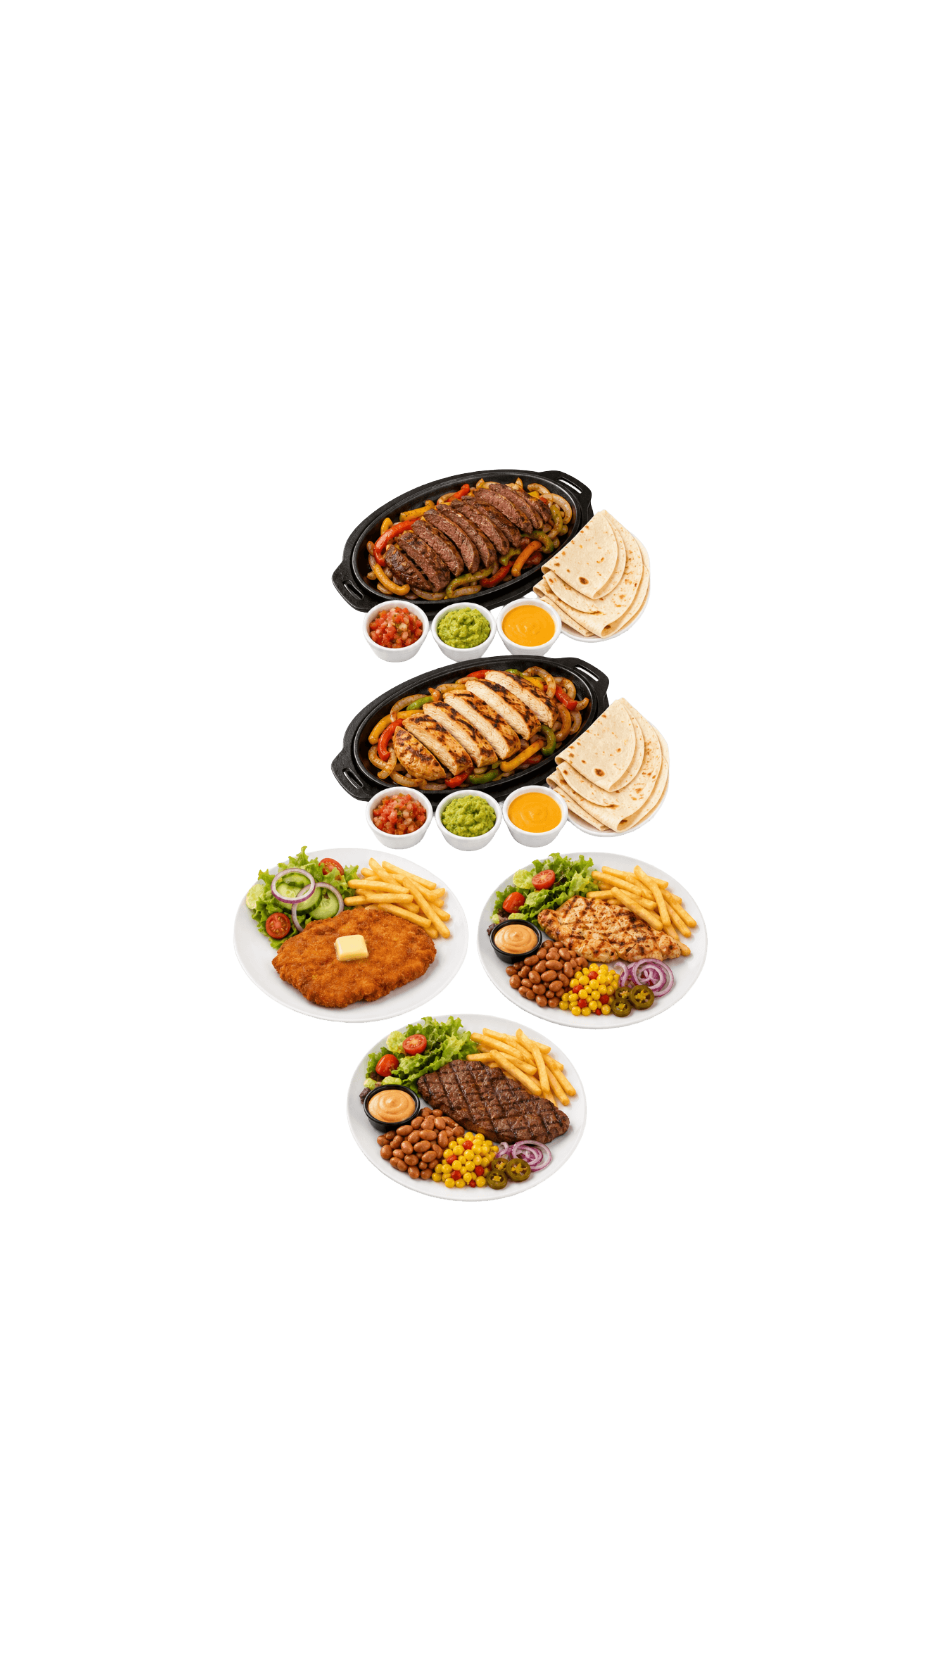
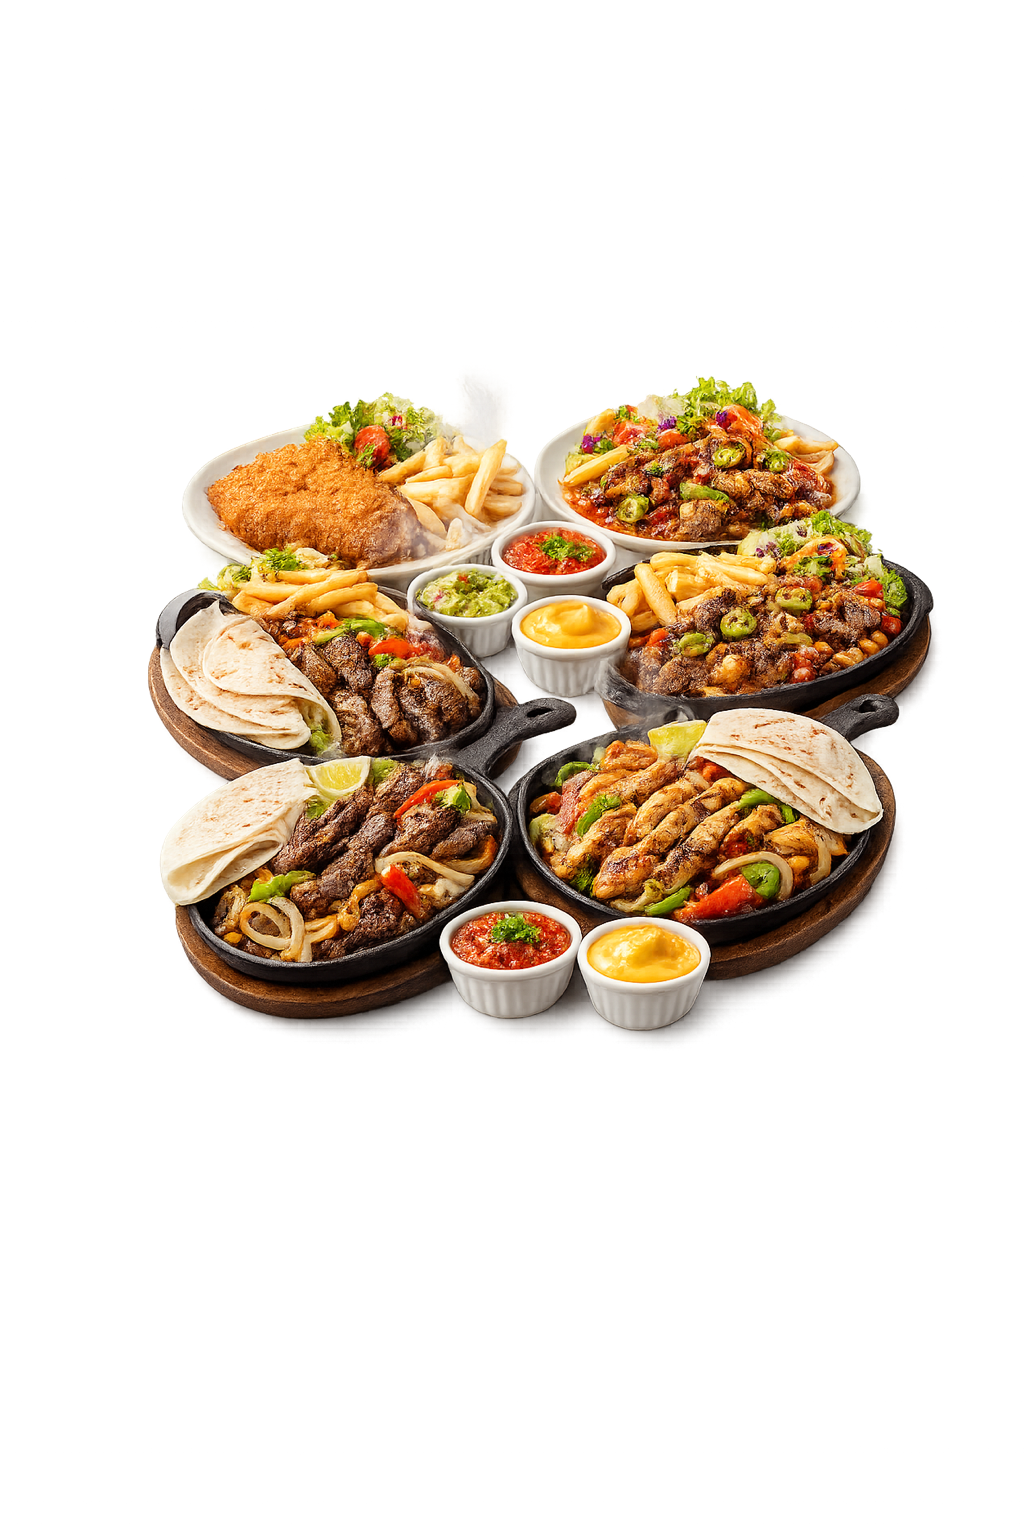
fix:Menu price changes feat:Popup logic and UI. - Not Active in this version but implemented. -

Changed region(s): [[0.1233, 0.2188, 0.9245, 0.7188]]

diff --git a/components/popup/SitePopup.tsx b/components/popup/SitePopup.tsx
@@ -1,0 +1,83 @@
+// components/popup/SitePopup.tsx
+
+"use client";
+
+import { useEffect, useState } from "react";
+import Image from "next/image";
+import { X } from "lucide-react";
+import type { PopupConfig } from "../../config/popups";
+
+type SitePopupProps = {
+  popup: PopupConfig;
+};
+
+export default function SitePopup({ popup }: SitePopupProps) {
+  const [isOpen, setIsOpen] = useState(false);
+
+  useEffect(() => {
+    const storageKey = `popup-seen-${popup.id}`;
+    const hasSeenPopup = sessionStorage.getItem(storageKey);
+
+    if (!hasSeenPopup) {
+      const timer = setTimeout(() => {
+        setIsOpen(true);
+      }, popup.delay ?? 800);
+
+      return () => clearTimeout(timer);
+    }
+  }, [popup.id, popup.delay]);
+
+  function closePopup() {
+    const storageKey = `popup-seen-${popup.id}`;
+    sessionStorage.setItem(storageKey, "true");
+    setIsOpen(false);
+  }
+
+  if (!isOpen) return null;
+
+  return (
+    <div className="fixed inset-0 z-[9999] flex items-center justify-center bg-black/60 px-4">
+      <div className="relative w-full max-w-md overflow-hidden rounded-3xl bg-white shadow-2xl">
+        <button
+          onClick={closePopup}
+          className="absolute right-4 top-4 z-10 rounded-full bg-white/90 p-2 text-neutral-900 shadow"
+          aria-label="Popup kapat"
+        >
+          <X size={20} />
+        </button>
+
+        {popup.image && (
+          <div className="relative aspect-[4/3] w-full">
+            <Image
+              src={popup.image}
+              alt={popup.title}
+              fill
+              className="object-cover"
+              priority
+            />
+          </div>
+        )}
+
+        <div className="p-6 text-center">
+          <h2 className="font-serif text-3xl text-neutral-950">
+            {popup.title}
+          </h2>
+
+          <p className="mt-3 text-sm leading-6 text-neutral-600">
+            {popup.description}
+          </p>
+
+          {popup.buttonText && popup.buttonHref && (
+            <a
+              href={popup.buttonHref}
+              onClick={closePopup}
+              className="mt-6 inline-flex w-full items-center justify-center rounded-full bg-neutral-950 px-6 py-3 text-sm font-semibold text-white transition hover:bg-neutral-800"
+            >
+              {popup.buttonText}
+            </a>
+          )}
+        </div>
+      </div>
+    </div>
+  );
+}

diff --git a/data/menuPages.ts b/data/menuPages.ts
@@ -810,7 +810,7 @@ pizzalar: {
             en: "Pizza sauce, mushroom, mozzarella cheese and thyme",
             tr: "Pizza sosu, mantar, mozzarella peyniri, kekik",
           },
-          price: "₺530",
+          price: "₺590",
         },
       ],
     },
@@ -895,7 +895,7 @@ pizzalar: {
             en: "Creamy curry spiced chicken pieces, mozzarella cheese, red onion and pizza sauce",
             tr: "Kremalı köri baharatlı tavuk parçaları, mozzarella peyniri, mor soğan, pizza sosu",
           },
-          price: "₺650",
+          price: "₺690",
         },
       ],
     },
@@ -1252,7 +1252,7 @@ izgaralar: {
             en: "150g beef tenderloin, salsa, guacamole, cheddar sauce and tortilla wrap",
             tr: "150 gr dana bonfile, salsa, guacamole, cheddar sos, tortilla lavaşı",
           },
-          price: "₺1.250",
+          price: "₺1.290",
         },
         {
           name: {
@@ -1787,7 +1787,7 @@ dondurmalar: {
             en: "Espresso",
             tr: "Espresso",
           },
-          price: "₺190",
+          price: "₺180",
         },
         {
           name: {
@@ -1963,7 +1963,7 @@ dondurmalar: {
             en: "Double Turkish Coffee",
             tr: "Duble Türk Kahvesi",
           },
-          price: "₺240",
+          price: "₺210",
         },
         {
           name: {
@@ -2179,7 +2179,7 @@ dondurmalar: {
             en: "Homemade Lemonade",
             tr: "Ev Yapımı Limonata",
           },
-          price: "₺150",
+          price: "₺190",
         },
         {
           name: {

diff --git a/config/popups.ts b/config/popups.ts
@@ -1,0 +1,45 @@
+// config/popups.ts
+
+export type PopupConfig = {
+  id: string;
+  routes: string[];
+  title: string;
+  description: string;
+  buttonText?: string;
+  buttonHref?: string;
+  image?: string;
+  delay?: number;
+};
+
+export const popups: PopupConfig[] = [
+  {
+    id: "homepage-campaign",
+    routes: ["/"],
+    title: "Özel Kampanya",
+    description: "Bugüne özel fırsatları kaçırmayın.",
+    buttonText: "Menüyü İncele",
+    buttonHref: "/",
+    image: "/images/popups/home-campaign.webp",
+    delay: 800,
+  },
+  {
+    id: "breakfast-popup",
+    routes: ["/kahvalti"],
+    title: "Kahvaltı Keyfi",
+    description: "Güne özel kahvaltı seçeneklerimizi keşfedin.",
+    buttonText: "Kahvaltıları Gör",
+    buttonHref: "/kahvalti",
+    image: "/images/popups/breakfast.webp",
+    delay: 800,
+  },
+  {
+    id: "burger-popup",
+    routes: ["/burgerler"],
+    title: "Burger Zamanı",
+    description: "Burger menülerimizi ve özel lezzetleri inceleyin.",
+    buttonText: "Burgerleri Gör",
+    buttonHref: "/burgerler",
+    image: "/images/popups/burger.webp",
+    delay: 800,
+  },
+];

diff --git a/components/menu/MenuCategoryPage.tsx b/components/menu/MenuCategoryPage.tsx
@@ -134,7 +134,7 @@ export default function MenuCategoryPage({ page }: MenuCategoryPageProps) {
       <main className="min-h-screen bg-[#f5efe3] pt-20">
         <section className="relative overflow-hidden px-5 py-10 md:py-16">
           <div className="absolute inset-0">
-            <div className="absolute inset-0 bg-[url('/images/caferoma-bg.webp')] bg-[length:100%_auto] bg-top bg-repeat-y lg:bg-[url('/images/caferoma-bg-yatay.webp')]" />
+            <div className="absolute inset-0 bg-[url('/images/caferoma-bg.webp')] bg-size-[100%_auto] bg-top bg-repeat-y lg:bg-[url('/images/caferoma-bg-yatay.webp')]" />
             <div className="absolute inset-0 bg-black/30" />
           </div>
 

diff --git a/app/(client)/[slug]/page.tsx b/app/(client)/[slug]/page.tsx
@@ -18,17 +18,18 @@ export function generateStaticParams() {
 export async function generateMetadata({ params }: PageProps) {
   const { slug } = await params;
   const page = menuPages[slug as keyof typeof menuPages];
-
   if (!page) {
     return {
       title: "Menu | Cafe Roma",
+      description: "Cafe Roma QR Menu",
     };
   }
 
   return {
-    title: `${page.title} | Cafe Roma`,
-    description: page.subtitle,
+    title: `${page.title.en} | Cafe Roma`,
+    description: page.subtitle.en,
   };
+
 }
 
 export default async function CategoryPage({ params }: PageProps) {

diff --git a/app/(client)/layout.tsx b/app/(client)/layout.tsx
@@ -2,6 +2,7 @@ import type { Metadata } from "next";
 import { Geist, Geist_Mono } from "next/font/google";
 import "./globals.css";
 import { LanguageProvider } from "../../components/i18n/LanguageProvider";
+import PopupProvider from "../../components/popup/PopupProvider";
 
 const geistSans = Geist({
   variable: "--font-geist-sans",
@@ -36,6 +37,7 @@ export default function RootLayout({
     >
       <body className="min-h-full flex flex-col">
         <LanguageProvider>{children}</LanguageProvider>
+        {/* <PopupProvider /> */}
       </body>
     </html>
   );

diff --git a/components/popup/PopupProvider.tsx b/components/popup/PopupProvider.tsx
@@ -1,0 +1,19 @@
+// components/popup/PopupProvider.tsx
+
+"use client";
+
+import { usePathname } from "next/navigation";
+import { popups } from "../../config/popups";
+import SitePopup from "./SitePopup";
+
+export default function PopupProvider() {
+  const pathname = usePathname();
+
+  const activePopup = popups.find((popup) =>
+    popup.routes.includes(pathname)
+  );
+
+  if (!activePopup) return null;
+
+  return <SitePopup popup={activePopup} />;
+}
